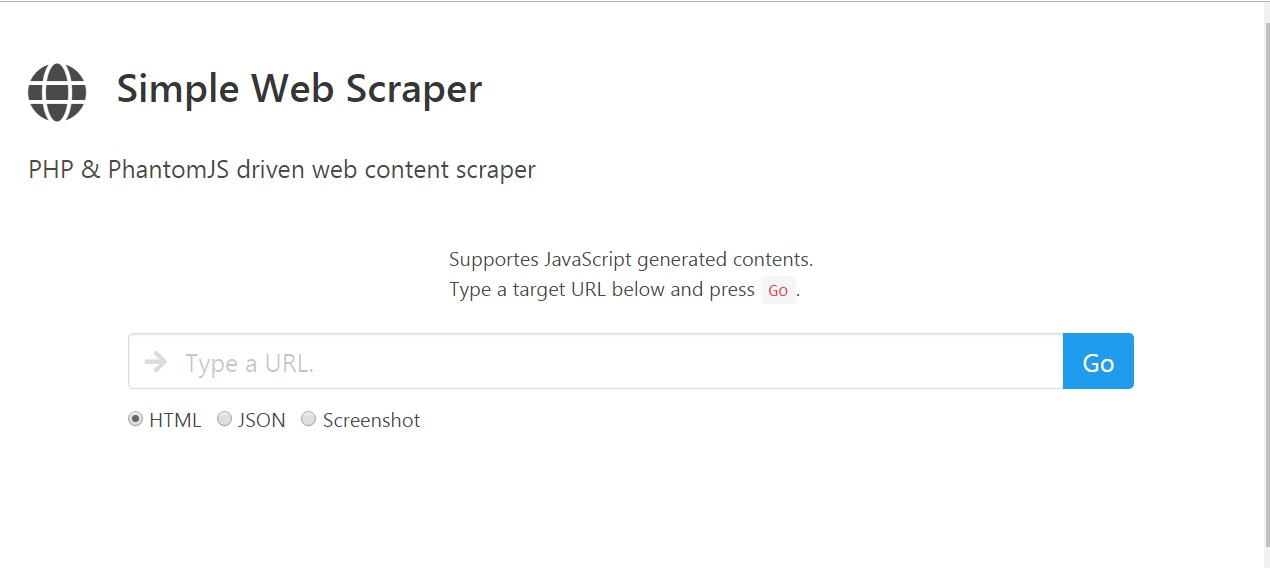
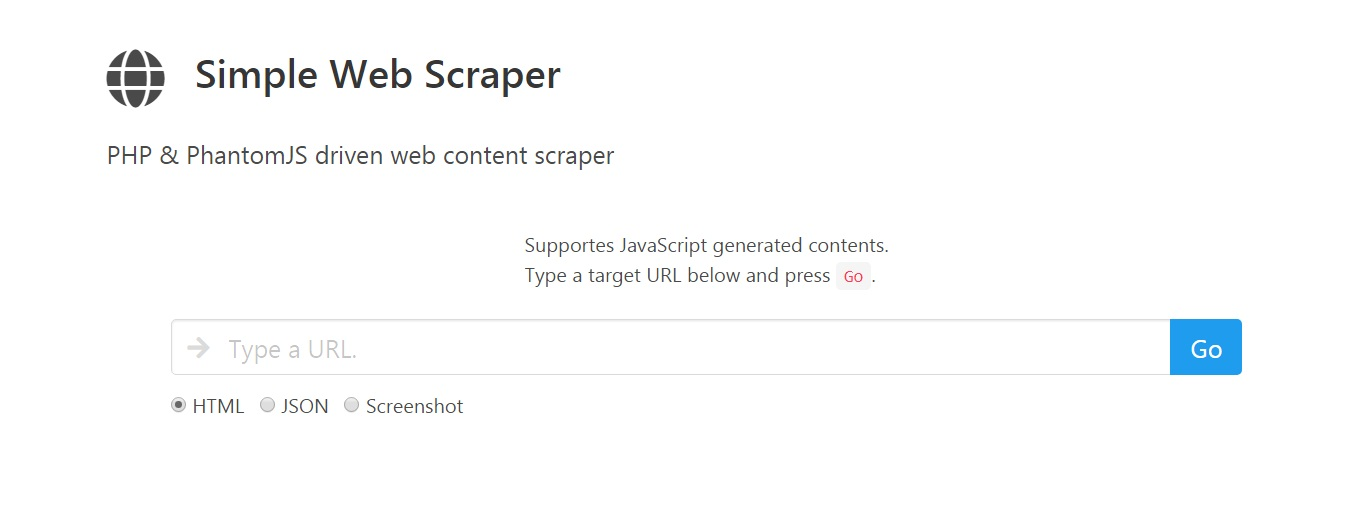
Updated images and instructions.

diff --git a/README.md b/README.md
@@ -2,10 +2,10 @@
 A PHP application for Heroku, which can dump web site outputs including JavaScript generated contents.
 
 <p align="center">
-  <img src="_asset/image/screenshot.jpg" width="400" title="screenshot"> 
+  <img src="_asset/image/screenshot.jpg" width="600" title="screenshot"> 
 </p>
 
-## Ouput Types
+## Supported Ouput Types
 - HTML
 HTML source code of the target web site. JavaScript generated contents are also retrieved and dumped.
 
@@ -15,8 +15,8 @@ HTTP response data as JSON. Useful for cross site communications with JSONP.
 - Screenshot
 A jpeg image of the site.
 
-## Heroku Application
-This is a Heroku application and meant to be deployed to [Heroku](https://dashboard.heroku.com/).
+## Run as Heroku Application
+This is a Heroku application and meant to be deployed to a [Heroku](https://dashboard.heroku.com/) application instance.
 
 ### Requirements
 - Heroku account
@@ -54,12 +54,12 @@ https://glacial-basin-46381.herokuapp.com/ | https://git.heroku.com/glacial-basi
 heroku git:remote -a {heroku-app-name}
 ```
 
-5. Upload the files to Heroku.
+6. Upload the files to Heroku.
 ```
 git push heroku master
 ```
 
-5. Open the app in your browser.
+7. Open the app in your browser.
 ```
 heroku open
 ```
